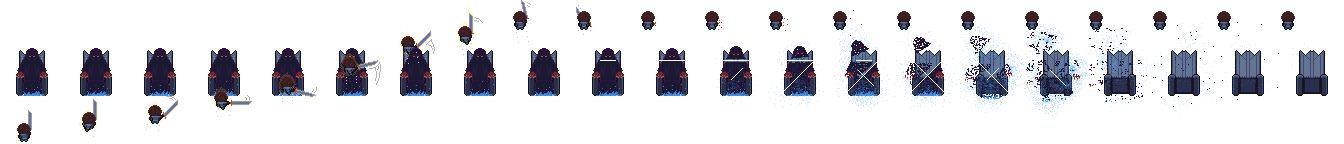
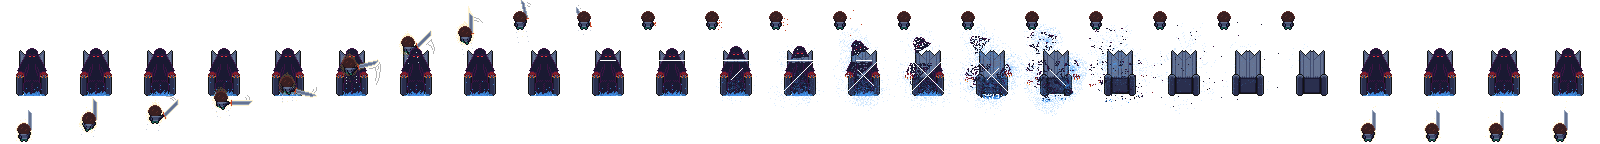
Just saving work

diff --git a/game/src/main.rs b/game/src/main.rs
@@ -3,7 +3,7 @@ mod rendering;
 use std::{collections::HashMap, env, path::PathBuf};
 
 use common_macros::hash_map;
-use game_core::{config::initialize_config_paths, constants::{INITIAL_CAMERA_VIEWPORT, SPRITE_SHEET_ANIMATED_OBJECTS, SPRITE_SHEET_AVATARS, SPRITE_SHEET_BASE_ATTACK, SPRITE_SHEET_BIOME_TILES, SPRITE_SHEET_BUILDINGS, SPRITE_SHEET_CAVE_DARKNESS, SPRITE_SHEET_CONSTRUCTION_TILES, SPRITE_SHEET_FARM_PLANTS, SPRITE_SHEET_HUMANOIDS_1X1, SPRITE_SHEET_HUMANOIDS_1X2, SPRITE_SHEET_HUMANOIDS_2X2, SPRITE_SHEET_HUMANOIDS_2X3, SPRITE_SHEET_INVENTORY, SPRITE_SHEET_MENU, SPRITE_SHEET_STATIC_OBJECTS, TILE_SIZE}, initialize_game, is_creative_mode, is_game_running, stop_game, ui::components::Typography, update_game, update_keyboard, update_mouse, utils::vector::Vector2d, window_size_changed};
+use game_core::{config::initialize_config_paths, constants::{INITIAL_CAMERA_VIEWPORT, SPRITE_SHEET_ANIMATED_OBJECTS, SPRITE_SHEET_AVATARS, SPRITE_SHEET_BASE_ATTACK, SPRITE_SHEET_BIOME_TILES, SPRITE_SHEET_BUILDINGS, SPRITE_SHEET_CAVE_DARKNESS, SPRITE_SHEET_CONSTRUCTION_TILES, SPRITE_SHEET_DEMON_LORD_DEFEAT, SPRITE_SHEET_FARM_PLANTS, SPRITE_SHEET_HUMANOIDS_1X1, SPRITE_SHEET_HUMANOIDS_1X2, SPRITE_SHEET_HUMANOIDS_2X2, SPRITE_SHEET_HUMANOIDS_2X3, SPRITE_SHEET_INVENTORY, SPRITE_SHEET_MENU, SPRITE_SHEET_STATIC_OBJECTS, TILE_SIZE}, initialize_game, is_creative_mode, is_game_running, stop_game, ui::components::Typography, update_game, update_keyboard, update_mouse, utils::vector::Vector2d, window_size_changed};
 use raylib::{ffi::{KeyboardKey, MouseButton}, texture::Texture2D, RaylibHandle, RaylibThread};
 use rendering::{ui::{get_rendering_config, get_rendering_config_mut, init_rendering_config, is_rendering_config_initialized, RenderingConfig}, worlds::render_frame};
 use sys_locale::get_locale;
@@ -112,7 +112,8 @@ fn load_textures(rl: &mut RaylibHandle, thread: &RaylibThread) -> HashMap<u32, T
     textures.insert(SPRITE_SHEET_HUMANOIDS_2X3, texture(rl, thread, "humanoids_2x3").unwrap());
     textures.insert(SPRITE_SHEET_AVATARS, texture(rl, thread, "avatars").unwrap());     
     textures.insert(SPRITE_SHEET_FARM_PLANTS, texture(rl, thread, "farm_plants").unwrap());    
-    textures.insert(SPRITE_SHEET_CAVE_DARKNESS, texture(rl, thread, "cave_darkness").unwrap());         
+    textures.insert(SPRITE_SHEET_CAVE_DARKNESS, texture(rl, thread, "cave_darkness").unwrap());     
+    textures.insert(SPRITE_SHEET_DEMON_LORD_DEFEAT, texture(rl, thread, "demon_lord_defeat").unwrap());         
     textures
 }
 

diff --git a/game_core/src/constants.rs b/game_core/src/constants.rs
@@ -51,3 +51,4 @@ pub const SPRITE_SHEET_HUMANOIDS_2X2: u32 = 1016;
 pub const SPRITE_SHEET_FARM_PLANTS: u32 = 1017;
 pub const SPRITE_SHEET_HUMANOIDS_2X3: u32 = 1018;
 pub const SPRITE_SHEET_CAVE_DARKNESS: u32 = 1019;
+pub const SPRITE_SHEET_DEMON_LORD_DEFEAT: u32 = 1020;
